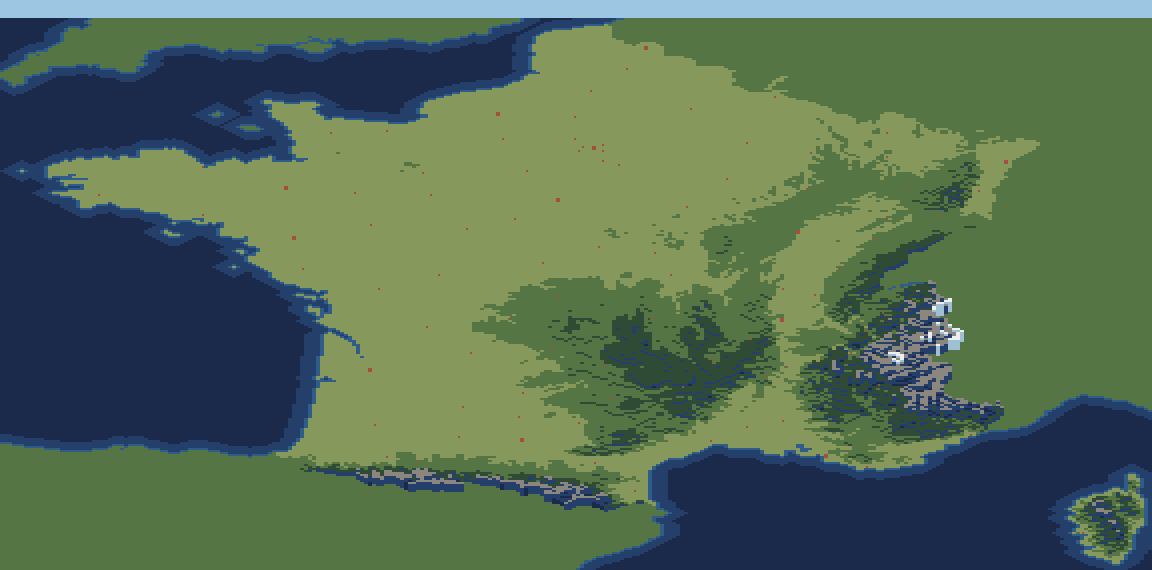
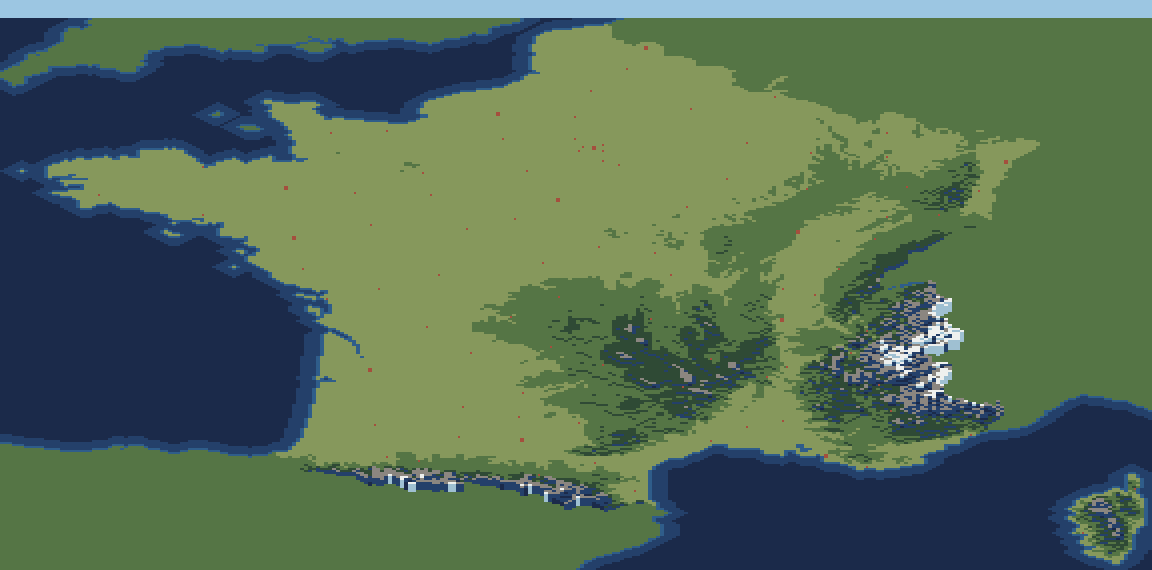
fix(render): review findings on the map mockups (B-010)
- Rock and snow start at their documented bounds, 1 300 m and 2 400 m, not
  one class higher (test).
- A town is drawn with its cell, in painter's order, so the relief in front of
  it hides it (test on every one-pixel town); its position is whole pixels.
- A prefecture whose 4 km cell is sea (Bastia) moves to the nearest land cell
  (test); the town list is computed once.
- The south face of a raised cell is one rectangle, not h stacked tiles; the
  cells are walked without building an array.
- coarseCellCentre, unused, is removed.
- AGENTS, PRD and ARCHITECTURE no longer describe a 45° isometric view, and
  say lamps light once the sun is below the horizon.

Claude-Session: https://claude.ai/code/session_015fegM51PAXWmEV65tJ3W6Y

diff --git a/src/render/map-view.ts b/src/render/map-view.ts
@@ -7,7 +7,6 @@
  */
 import { COARSE_ROWS_RLE, ELEVATION_ROWS_HEX } from "../map/france.ts";
 import {
-  cellCentre,
   COARSE_COLUMNS,
   COARSE_KM,
   COARSE_ROWS,
@@ -96,9 +95,9 @@ function cellHash(r: number, c: number): number {
  * Ground colour of a land cell: one flat colour per altitude band (summer, no season
  * yet), like the tints of a relief map, so the land reads as a few calm shapes.
  */
-function groundColour(elevation: number): ColourName {
-  if (elevation >= 13) return "snow"; // 2 400 m and up
-  if (elevation >= 10) return "rock"; // 1 300 m
+export function groundColour(elevation: number): ColourName {
+  if (elevation >= 12) return "snow"; // 2 400 m and up
+  if (elevation >= 9) return "rock"; // 1 300 m
   if (elevation >= 7) return "forest"; // 800 m
   if (elevation >= 4) return "grass"; // 300 m
   return "meadow";
@@ -120,7 +119,7 @@ function metres(elevation: number): number {
  * Relief height of a cell in pixels: a tile's width per 1 000 m. The plains stay
  * flat and the mountains rise, so the relief reads without striping the lowlands.
  */
-function heightPx(elevation: number, tile: number): number {
+export function heightPx(elevation: number, tile: number): number {
   return Math.floor((metres(elevation) * tile) / 1000);
 }
 
@@ -170,16 +169,36 @@ function bounds(
   ];
 }
 
-/** Towns drawn on the mockups: the prefectures (S-006), regional ones larger. */
-function towns(): { r: number; c: number; capital: boolean }[] {
+let cachedTowns: ReadonlyMap<number, boolean> | null = null;
+
+/**
+ * Towns drawn on the mockups: the prefectures (S-006), by coarse cell index, true for
+ * a regional prefecture. A prefecture whose cell is sea (Bastia, on the coast) moves
+ * to the nearest land cell around it, so no town floats on the water.
+ */
+export function townCells(kinds: Uint8Array = mapData().kinds): ReadonlyMap<number, boolean> {
+  if (cachedTowns !== null) return cachedTowns;
   const capitals = new Set<string>(Object.values(REGION_CAPITALS));
-  return PREFECTURES.flatMap(([dept, , , lat, lon]) => {
+  const found = new Map<number, boolean>();
+  for (const [dept, , , lat, lon] of PREFECTURES) {
     const cell = fineIndexOf(lat, lon);
-    if (cell === null) return [];
+    if (cell === null) continue;
     const r = Math.floor((cell.row * FINE_KM) / COARSE_KM);
     const c = Math.floor((cell.column * FINE_KM) / COARSE_KM);
-    return [{ r, c, capital: capitals.has(dept) }];
-  });
+    let best: number | null = null;
+    for (let ring = 0; ring <= 2 && best === null; ring++)
+      for (let dr = -ring; dr <= ring && best === null; dr++)
+        for (let dc = -ring; dc <= ring && best === null; dc++) {
+          const rr = r + dr;
+          const cc = c + dc;
+          if (rr < 0 || cc < 0 || rr >= COARSE_ROWS || cc >= COARSE_COLUMNS) continue;
+          const k = kinds[rr * COARSE_COLUMNS + cc] ?? SEA;
+          if (k !== SEA && k !== FOREIGN) best = rr * COARSE_COLUMNS + cc;
+        }
+    if (best !== null) found.set(best, (found.get(best) ?? false) || capitals.has(dept));
+  }
+  cachedTowns = found;
+  return found;
 }
 
 export function drawMapView(options: MapViewOptions): Surface {
@@ -216,66 +235,58 @@ export function drawMapView(options: MapViewOptions): Surface {
     for (let x = 0; x < width; x++) setPixel(s, x, y, PALETTE[skyColour(light, level, x, y)]);
   }
 
-  // Painter's order: back to front.
-  const cells: [number, number][] = [];
-  for (let r = top; r <= bottom; r++) for (let c = left; c <= right; c++) cells.push([r, c]);
-
+  // Painter's order, back (north) to front (south): a town is drawn with its cell, so
+  // the relief in front of it hides it as it should.
   const at = (r: number, c: number): number => r * COARSE_COLUMNS + c;
   const focus = options.region === undefined ? null : kindOfRegion(options.region);
-  for (const [r, c] of cells) {
-    const i = at(r, c);
-    const kind = kinds[i] ?? SEA;
-    const [px, py] = project(r, c, tile);
-    const x0 = px - minX;
-    const y0 = py - minY + lift;
-    if (kind === SEA) {
-      const sea = seaColour(seaDistance[i] ?? 255);
-      drawTile(s, x0, y0, tile, (x, y) => tinted(sea, light.darkness, x, y));
-      continue;
-    }
-    const e = kind === FOREIGN ? 0 : (elevation[i] ?? 0);
-    const h = heightPx(e, tile);
-    const ground = groundColour(e);
-    // Hill shading, one light from the north-west: a cell 250 m or more below its
-    // north-west neighbour faces away from it and is one step darker. Smaller drops
-    // stay lit, so the plains stay calm.
-    const nw = kind === FOREIGN ? 0 : (elevation[at(Math.max(r - 1, 0), Math.max(c - 1, 0))] ?? 0);
-    const shade = metres(nw) - metres(e) >= 250 ? 1 : 0;
-    // Abroad, and outside the region on a region view, the land recedes one step by
-    // day. The veil fades as night falls, or the land around would darken into the
-    // sea's blues and read as sea; at night the lamps set France apart.
-    const veiled = kind === FOREIGN || (focus !== null && kind !== focus);
-    const veil = veiled ? Math.max(0, 1 - light.darkness / 2) : 0;
-    const darkness = light.darkness + shade + veil;
-    const side = darken(ground, 1);
-    for (let k = 0; k < h; k++)
-      drawTile(s, x0, y0 - k, tile, (x, y) => tinted(side, darkness, x, y));
-    drawTile(s, x0, y0 - h, tile, (x, y) => tinted(ground, darkness, x, y));
-  }
-
-  // Towns: roofs by day, lamps when emissive.
-  for (const town of towns()) {
-    if (town.r < top || town.r > bottom || town.c < left || town.c > right) continue;
-    const e = elevation[at(town.r, town.c)] ?? 0;
-    const [px, py] = project(town.r, town.c, tile);
-    const cx = px - minX + tile / 2;
-    const cy = py - minY + lift - heightPx(e, tile) + tile / 4;
-    const size = Math.max(1, Math.floor(tile / 4)) + (town.capital ? 1 : 0);
-    for (let dy = 0; dy < size; dy++) {
-      for (let dx = 0; dx < size; dx++) {
-        const x = cx - Math.floor(size / 2) + dx;
-        const y = cy - Math.floor(size / 2) + dy;
-        if (light.emissive) {
-          // Lit windows: a scatter, not a block, so a town glows like a town.
-          if (size === 1 || cellHash(x, y) % 3 !== 0) setPixel(s, x, y, PALETTE.lamp);
-        } else setPixel(s, x, y, PALETTE[tinted("roof", light.darkness, x, y)]);
+  const townAt = townCells(kinds);
+  for (let r = top; r <= bottom; r++)
+    for (let c = left; c <= right; c++) {
+      const i = at(r, c);
+      const kind = kinds[i] ?? SEA;
+      const [px, py] = project(r, c, tile);
+      const x0 = px - minX;
+      const y0 = py - minY + lift;
+      if (kind === SEA) {
+        const sea = seaColour(seaDistance[i] ?? 255);
+        drawTile(s, x0, y0, tile, (x, y) => tinted(sea, light.darkness, x, y));
+        continue;
       }
-    }
-  }
-  return s;
-}
+      const e = kind === FOREIGN ? 0 : (elevation[i] ?? 0);
+      const h = heightPx(e, tile);
+      const ground = groundColour(e);
+      // Hill shading, one light from the north-west: a cell 250 m or more below its
+      // north-west neighbour faces away from it and is one step darker. Smaller drops
+      // stay lit, so the plains stay calm.
+      const nw =
+        kind === FOREIGN ? 0 : (elevation[at(Math.max(r - 1, 0), Math.max(c - 1, 0))] ?? 0);
+      const shade = metres(nw) - metres(e) >= 250 ? 1 : 0;
+      // Abroad, and outside the region on a region view, the land recedes one step by
+      // day. The veil fades as night falls, or the land around would darken into the
+      // sea's blues and read as sea; at night the lamps set France apart.
+      const veiled = kind === FOREIGN || (focus !== null && kind !== focus);
+      const veil = veiled ? Math.max(0, 1 - light.darkness / 2) : 0;
+      const darkness = light.darkness + shade + veil;
+      // The south face shows below the top face: h rows, one step darker.
+      const side = darken(ground, 1);
+      for (let y = y0 - h + tile / 2; y < y0 + tile / 2; y++)
+        for (let x = x0; x < x0 + tile; x++)
+          setPixel(s, x, y, PALETTE[tinted(side, darkness, x, y)]);
+      drawTile(s, x0, y0 - h, tile, (x, y) => tinted(ground, darkness, x, y));
 
-/** Where the centre of a coarse cell is, for tests and captions. */
-export function coarseCellCentre(r: number, c: number): { latitude: number; longitude: number } {
-  return cellCentre(r, c, COARSE_KM);
+      // A town on this cell: a roof by day, lamps once the sun is down.
+      const capital = townAt.get(i);
+      if (capital === undefined) continue;
+      const size = Math.max(1, Math.floor(tile / 4)) + (capital ? 1 : 0);
+      const cx = x0 + tile / 2 - Math.floor(size / 2);
+      const cy = y0 - h + Math.floor(tile / 4) - Math.floor(size / 2);
+      for (let y = cy; y < cy + size; y++)
+        for (let x = cx; x < cx + size; x++) {
+          if (light.emissive) {
+            // Lit windows: a scatter, not a block, so a town glows like a town.
+            if (size === 1 || cellHash(x, y) % 3 !== 0) setPixel(s, x, y, PALETTE.lamp);
+          } else setPixel(s, x, y, PALETTE[tinted("roof", light.darkness, x, y)]);
+        }
+    }
+  return s;
 }

diff --git a/tests/map-view.test.ts b/tests/map-view.test.ts
@@ -1,6 +1,13 @@
 import { describe, expect, it } from "vitest";
-import { fineIndexOf } from "../src/map/grid";
-import { drawMapView } from "../src/render/map-view";
+import {
+  COARSE_COLUMNS,
+  decodeHex,
+  decodeRuns,
+  ELEVATION_CLASSES,
+  fineIndexOf,
+} from "../src/map/grid";
+import { COARSE_ROWS_RLE, ELEVATION_ROWS_HEX } from "../src/map/france";
+import { drawMapView, groundColour, heightPx, townCells } from "../src/render/map-view";
 import { COLOUR_NAMES, PALETTE } from "../src/render/palette";
 import { getPixel, hashSurface, type Surface } from "../src/render/surface";
 import { lightAt } from "../src/sky/light";
@@ -65,6 +72,59 @@ describe("drawMapView", () => {
     const atNight = drawMapView({ tile: 2, light: night });
     expect(pixel(atNight, ...belgium)).toBe(pixel(atNight, ...beauce));
     expect(pixel(atNight, ...belgium)).not.toBe(PALETTE.sea.join());
+  });
+
+  it("colours the altitude bands from their documented lower bounds", () => {
+    // Regression: rock and snow started one class too high (1 600 m and 2 800 m).
+    const band = (metres: number): string => groundColour(ELEVATION_CLASSES.indexOf(metres));
+    expect(band(0)).toBe("meadow");
+    expect(band(200)).toBe("meadow");
+    expect(band(300)).toBe("grass");
+    expect(band(800)).toBe("forest");
+    expect(band(1000)).toBe("forest");
+    expect(band(1300)).toBe("rock");
+    expect(band(2000)).toBe("rock");
+    expect(band(2400)).toBe("snow");
+  });
+
+  it("puts every town on French land, Bastia included", () => {
+    // Regression: the prefecture of Haute-Corse fell on a sea cell, off the coast.
+    const kinds = decodeRuns(COARSE_ROWS_RLE, COARSE_COLUMNS);
+    const cells = townCells(kinds);
+    expect(cells.size).toBeGreaterThan(80); // 96 prefectures, a few share a 4 km cell
+    for (const i of cells.keys()) expect(kinds[i], String(i)).toBeGreaterThanOrEqual(2);
+    const bastia = fineIndexOf(42.7, 9.45);
+    if (bastia === null) throw new Error("off the grid");
+    const r = Math.floor(bastia.row / 4);
+    const c = Math.floor(bastia.column / 4);
+    const near = [...cells.keys()].some(
+      (i) =>
+        Math.abs(Math.floor(i / COARSE_COLUMNS) - r) <= 2 &&
+        Math.abs((i % COARSE_COLUMNS) - c) <= 2,
+    );
+    expect(near).toBe(true);
+  });
+
+  it("hides a town behind the relief in front of it (painter's order)", () => {
+    // Regression: towns were drawn after all the terrain, over the hills south of
+    // them (Rodez, Saint-Étienne, Annecy). On the whole map with 2-pixel tiles, a
+    // cell's top face starts at y = row + 9 − height (9: room left for the relief).
+    const kinds = decodeRuns(COARSE_ROWS_RLE, COARSE_COLUMNS);
+    const elevation = decodeHex(ELEVATION_ROWS_HEX, COARSE_COLUMNS);
+    const s = drawMapView({ tile: 2, light: night });
+    const top = (i: number): number =>
+      Math.floor(i / COARSE_COLUMNS) + 9 - heightPx(elevation[i] ?? 0, 2);
+    let hidden = 0;
+    for (const [i, capital] of townCells(kinds)) {
+      if (capital) continue; // one-pixel towns only
+      const x = (i % COARSE_COLUMNS) * 2 + 1;
+      const y = top(i);
+      const south = i + COARSE_COLUMNS;
+      if (kinds[south] === 0 || top(south) > y) continue;
+      hidden++;
+      expect(getPixel(s, x, y).join(), String(i)).not.toBe(PALETTE.lamp.join());
+    }
+    expect(hidden).toBeGreaterThan(0);
   });
 
   it("draws the recorded frames (frame hashes, also checked in Chromium)", () => {

diff --git a/docs/ARCHITECTURE.md b/docs/ARCHITECTURE.md
@@ -426,7 +426,7 @@ A missing figure shows the element **idle** (no motion, no glow) and the caption
 
 ## Art direction
 
-Direction A, the isometric map, was chosen by Guillaume on 2026-11-11 (PRD Q-1). The
+Direction A, the isometric map (drawn north up, D-017), was chosen by Guillaume on 2026-11-11 (PRD Q-1). The
 palette, the night and the dusk below were validated with the mockups of B-010
 (D-019); the resolution and the level of detail are still **proposed** until B-011.
 
@@ -495,7 +495,9 @@ How it draws, for now, aiming at calm, elegant pixel art (Guillaume, 2026-11-11)
 - sea in three flat bands by distance to the coast;
 - foreign land, and the other regions on a region view, one step darker by day;
   this veil fades as night falls, so that the land around never reads as sea;
-- towns are the prefectures (S-006): roofs by day, lamps at blue hour and night.
+- towns are the prefectures (S-006), each moved to the nearest land cell if its own is
+  sea, drawn with its cell so the relief in front hides it: roofs by day, lamps once
+  the sun is below the horizon.
 
 Its frames are hashed in Node and Chromium like the test card. The 4 km grid makes a
 region blocky at 8-pixel tiles; the 1 km relief comes with the zoom (D-018, B-011).

diff --git a/AGENTS.md b/AGENTS.md
@@ -14,8 +14,8 @@ either document wrong, update it in the same commit.
 ## 1. Project
 
 **Wattscape**: a browser "screensaver" in minimal pixel art that shows, live, how
-electricity is produced and consumed in the user's region of France. An isometric map
-of France that zooms from the whole country to the region (its landmarks, its power
+electricity is produced and consumed in the user's region of France. A relief map of
+France, north up, that zooms from the whole country to the region (its landmarks, its power
 plants, its towns), whose every moving part is driven by open data: RTE éCO2mix for
 the grid, Open-Meteo for the weather, the sun's real position for day and night, the
 date for the seasons. Inspired by

diff --git a/docs/PRD.md b/docs/PRD.md
@@ -189,7 +189,8 @@ Two directions fit the brief; the zoom between France and a region (§4.3) decid
 between them.
 
 - **A. Isometric map of France (chosen, Guillaume, 2026-11-11).** France as a pixel-art relief model,
-  seen from above at a 2:1 isometric angle, like a board game or a tabletop diorama.
+  seen from above at an angle in 2:1 tiles, like a board game or a tabletop diorama;
+  drawn north up rather than turned 45° (D-017).
   Zoomed out, a small, elegant map with each region tinted; zoomed in, terrain tiles,
   towns, plants and landmarks as small iso sprites. The zoom is natural, plants sit at
   their real place, and Infinite Jungle shows the style holds up. Cost: we need the
